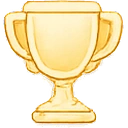
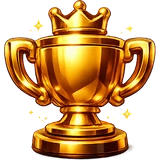
v2.9.3: de echte pictogrammen, en zeshoeken in de profielkop
De nieuwe art uit de UI-map vervangt de omgekleurde versies: een wagentje, twee
figuren en een beker, alle drie in massief goud met hun eigen warme halo. Het vel
is nu drie losse voorwerpen in plaats van een raster van veertig, dus ze worden
op x-positie gegroepeerd; losse sterretjes gaan naar het DICHTSTBIJZIJNDE
voorwerp en niet naar hun vak.

Om ze te vinden telt alleen wat echt dekkend is, want de halo's van de drie lopen
in elkaar over en dan zou het er een worden. Uitsnijden gebeurt daarna wel met de
halo erbij, want die hoort bij de tekening.

De getekende ShopIcon is daarmee overbodig, en de halo die ik er zelf onder legde
ook: die zat al in de art en verdubbelde. Het verschil tussen gekozen en niet
gekozen is nu puur belichting.

De knoppen in de profielkop staan op de paarse zeshoek van de main page, de
muziekknop erbij: losse pictogrammen op een lege balk hoorden nergens bij, op een
plaat zijn het knoppen. De service worker gaat naar v42, want de pictogrammen zijn
op dezelfde URL overschreven.

diff --git a/frontend/src/screens/Hub.tsx b/frontend/src/screens/Hub.tsx
@@ -14,6 +14,7 @@ import { MicButton } from "../components/MicButton";
 import { VoiceNote } from "../components/VoiceNote";
 import { EmotePicker } from "../components/EmotePicker";
 import { EMOTE_SRC, FREE_EMOTE_PACKS } from "../components/emotes";
+import { HexPlate } from "../components/HexPlate";
 import { MusicToggle } from "../components/MusicToggle";
 import { Toggle } from "../components/Toggle";
 import { Screen, Card } from "../components/Layout";
@@ -113,7 +114,11 @@ export function Hub({ game, section, onBack, onShowShop, onOpenInbox, onChalleng
     // eslint-disable-next-line react-hooks/exhaustive-deps
   }, [tab]);
 
-  const topIconBtn: React.CSSProperties = { background: "transparent", border: "none", cursor: "pointer", color: colors.sub, display: "flex", padding: 6 };
+  // De knoppen in de bovenbalk staan op de paarse zeshoek van de main page, net
+  // als de knoppen naast het logo. Losse pictogrammen op een lege balk hoorden
+  // nergens bij; op een plaat zijn het knoppen.
+  const topIconBtn: React.CSSProperties = { background: "transparent", border: "none", cursor: "pointer", color: colors.sub, display: "flex", padding: 0 };
+  const HEX = 38;
 
   // Profielinstellingen open its own full screen.
   if (settingsOpen && account) {
@@ -131,24 +136,32 @@ export function Hub({ game, section, onBack, onShowShop, onOpenInbox, onChalleng
           {account && (
             <>
               {section === "profile" && (
-                <button onClick={() => { sound.uiTap(); onOpenInbox(); }} aria-label={t("inboxTab")} title={t("inboxTab")} style={{ ...topIconBtn, position: "relative" }}>
-                  <Send size={19} />
+                <button onClick={() => { sound.uiTap(); onOpenInbox(); }} aria-label={t("inboxTab")} title={t("inboxTab")} className="pressable" style={{ ...topIconBtn, position: "relative" }}>
+                  <HexPlate on size={HEX}>
+                    <Send size={17} />
+                  </HexPlate>
                   {inboxCount > 0 && (
-                    <span style={{ position: "absolute", top: -1, right: -3, minWidth: 16, height: 16, padding: "0 4px", borderRadius: 999, background: colors.gold, color: colors.bg0, fontFamily: font.ui, fontSize: 10, fontWeight: 800, lineHeight: "16px", textAlign: "center" }}>
+                    <span style={{ position: "absolute", top: -2, right: -4, minWidth: 16, height: 16, padding: "0 4px", borderRadius: 999, background: colors.gold, color: colors.bg0, fontFamily: font.ui, fontSize: 10, fontWeight: 800, lineHeight: "16px", textAlign: "center" }}>
                       {inboxCount > 9 ? "9+" : inboxCount}
                     </span>
                   )}
                 </button>
               )}
-              <button onClick={shareCard} disabled={sharing} aria-label={t("shareProfile")} title={t("shareProfile")} style={{ ...topIconBtn, opacity: sharing ? 0.5 : 1 }}>
-                <Share2 size={18} />
+              <button onClick={shareCard} disabled={sharing} aria-label={t("shareProfile")} title={t("shareProfile")} className="pressable" style={{ ...topIconBtn, opacity: sharing ? 0.5 : 1 }}>
+                <HexPlate on size={HEX}>
+                  <Share2 size={16} />
+                </HexPlate>
               </button>
-              <button onClick={() => { sound.uiTap(); setSettingsOpen(true); }} aria-label={t("profileSettings")} title={t("profileSettings")} style={topIconBtn}>
-                <SettingsIcon size={18} />
+              <button onClick={() => { sound.uiTap(); setSettingsOpen(true); }} aria-label={t("profileSettings")} title={t("profileSettings")} className="pressable" style={topIconBtn}>
+                <HexPlate on size={HEX}>
+                  <SettingsIcon size={16} />
+                </HexPlate>
               </button>
             </>
           )}
-          <MusicToggle />
+          {/* De muziekknop staat op de main page al op zo'n plaat; hier stond hij
+              er als enige naast en dat viel op. */}
+          <MusicToggle plate size={16} padding={0} />
         </div>
       }
     >

diff --git a/frontend/src/components/BottomNav.tsx b/frontend/src/components/BottomNav.tsx
@@ -8,7 +8,6 @@
 import { useEffect, useRef, useState } from "react";
 import { Home, ShoppingCart, Trophy, UserRound, Users } from "lucide-react";
 import { Avatar } from "./Avatar";
-import { ShopIcon } from "./NavIcons";
 import type { GameApi } from "../net/socket";
 import { NeonLine } from "./NeonLine";
 import { useT } from "../i18n/i18n";
@@ -92,12 +91,11 @@ export function BottomNav({
     // vorm en het licht van de tekening blijven staan, alleen het materiaal is
     // anders. Parelwit stond er los bij op een plaat die zelf al goud omrand is.
     //
-    // Voor de winkel zit er geen wagentje in het vel, dus dat is de getekende
-    // versie. Die staat in dezelfde gouden reeks, en daardoor valt het verschil
-    // tussen tekening en art niet op: de KLEUR is wat ze bij elkaar houdt.
-    const maat = Math.round(s * 1.04);
+    // De art draagt zijn eigen warme halo, dus die hoeft er niet omheen; het
+    // verschil tussen gekozen en niet gekozen is alleen belichting.
+    const maat = Math.round(s * 1.12);
     const art: Partial<Record<NavKey, (on: boolean) => React.ReactNode>> = {
-      shop: (on) => <NavGloed on={on} size={maat}><ShopIcon on size={maat} /></NavGloed>,
+      shop: (on) => <NavArt src="/ui/nav/shop.webp" on={on} size={maat} />,
       leaderboard: (on) => <NavArt src="/ui/nav/trophy.webp" on={on} size={maat} />,
       friends: (on) => <NavArt src="/ui/nav/friends.webp" on={on} size={maat} />,
     };
@@ -238,48 +236,24 @@ export function BottomNav({
   );
 }
 
-/** De gloed onder een gekozen pictogram in de onderbalk.
+/** Een pictogram uit de UI-map in de onderbalk.
  *
- *  Alles is goud, dus de actieve staat is geen kleurwissel maar LICHT: de rest
- *  zakt weg in de schaduw en de gekozen licht op. Hetzelfde materiaal, andere
- *  belichting. */
-function NavGloed({ on, size, children }: { on: boolean; size: number; children: React.ReactNode }) {
-  return (
-    <span
-      style={{
-        position: "relative",
-        width: size,
-        height: size,
-        display: "grid",
-        placeItems: "center",
-        // Een halo achter het pictogram in plaats van een drop-shadow: die laat
-        // iOS de laag apart rasteren en dan zie je zijn rechthoek eroverheen.
-        filter: on ? "none" : "brightness(.62) saturate(.72)",
-      }}
-    >
-      {on && (
-        <span
-          aria-hidden
-          style={{
-            position: "absolute",
-            inset: "12%",
-            borderRadius: "50%",
-            background: `radial-gradient(closest-side, ${withAlpha(colors.gold, 0.5)} 0%, ${withAlpha(colors.gold, 0.18)} 55%, transparent 100%)`,
-            filter: "blur(4px)",
-          }}
-        />
-      )}
-      <span style={{ position: "relative", display: "grid", placeItems: "center" }}>{children}</span>
-    </span>
-  );
-}
-
-/** Een pictogram uit de UI-map, in het goud van de app gezet. */
+ *  Alles is goud, dus de gekozen plek is geen kleurwissel maar LICHT: de rest
+ *  zakt weg in de schaduw en de gekozen staat vol aan. Hetzelfde materiaal,
+ *  andere belichting. De halo zit al in de art getekend, dus er hoeft er geen
+ *  omheen; dat zou de gloed verdubbelen. */
 function NavArt({ src, on, size }: { src: string; on: boolean; size: number }) {
   return (
-    <NavGloed on={on} size={size}>
-      <img src={src} alt="" style={{ width: size, height: size, display: "block" }} />
-    </NavGloed>
+    <img
+      src={src}
+      alt=""
+      style={{
+        width: size,
+        height: size,
+        display: "block",
+        filter: on ? "brightness(1.06)" : "brightness(.55) saturate(.68)",
+      }}
+    />
   );
 }
 

diff --git a/frontend/public/sw.js b/frontend/public/sw.js
@@ -10,7 +10,7 @@
 //    briefly-stale shell can still boot from cache instead of going black.
 //  - Every activation purges ALL old caches (drops any poisoned shell).
 // Never touches the WebSocket or the API.
-const CACHE = "penneer-v41"; // v41: nieuwe onderbalk
+const CACHE = "penneer-v42"; // v42: nieuwe balk-pictogrammen
 
 self.addEventListener("install", () => {
   self.skipWaiting();

diff --git a/frontend/src/version.ts b/frontend/src/version.ts
@@ -1,2 +1,2 @@
 // Bump per user-facing release. Shown in Settings > About.
-export const APP_VERSION = "2.9.2";
+export const APP_VERSION = "2.9.3";
